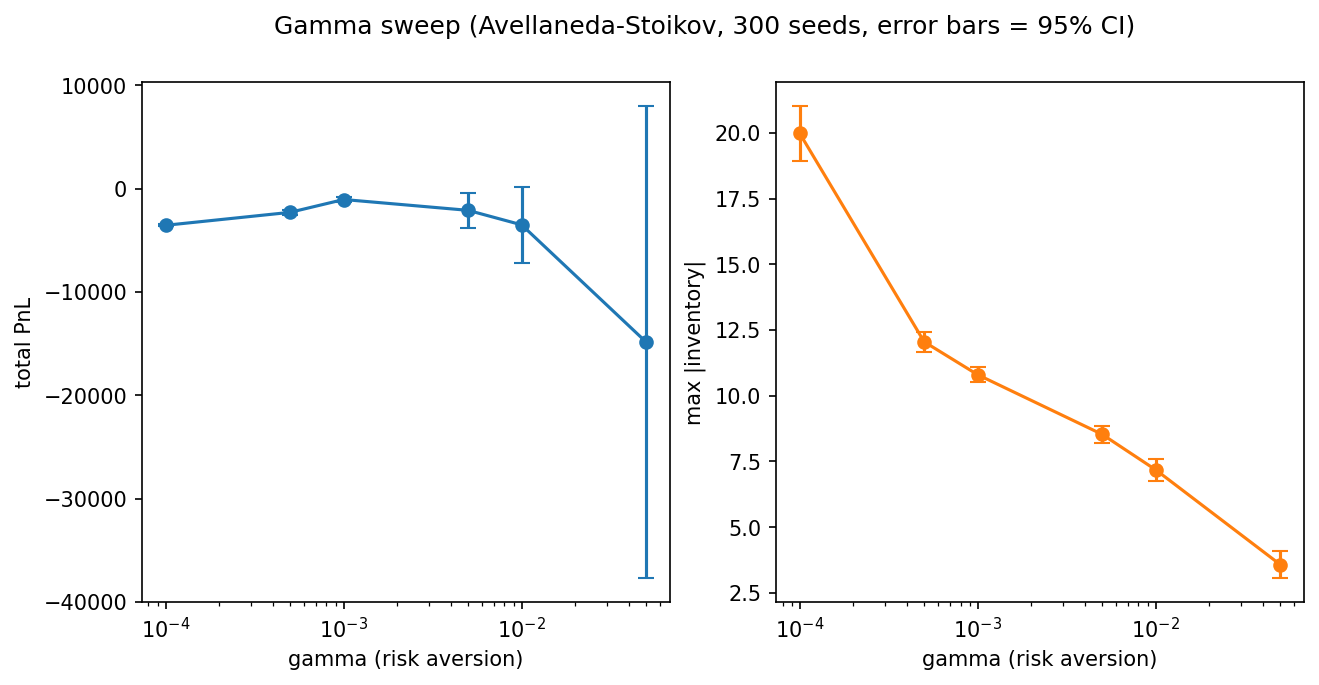
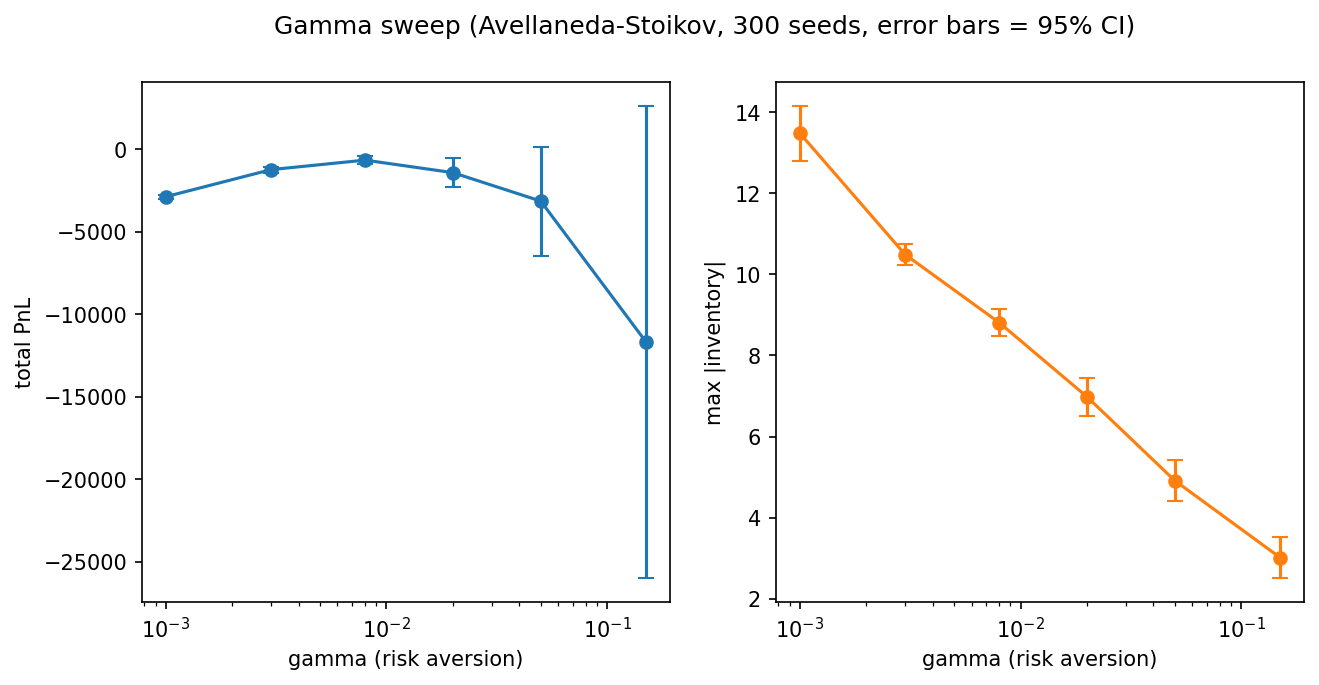
fix: recalibrate AS/OFI's sigma - reduces loss but doesn't reach profit
AS/OFI's sigma (assumed mid-price volatility) was left at its config
default of 1.0, never checked against what the synthetic book actually
does. Measured the real thing: per-event mid-price move has std ~0.59
ticks, nowhere near what sigma=1.0 implies. variance_term =
gamma*sigma^2*tau is quadratic in sigma, so this distorted AS/OFI's
quoted spread regardless of how gamma was tuned.

Ran a grid search over gamma x sigma x kappa (150+ combinations at 50
seeds, top candidates confirmed at 300) to find a properly calibrated
config. Best found: gamma=0.008, sigma=0.45, kappa=0.4. AS's mean loss
drops from -1058 to -655, OFI's from -945 to -539 -- a real improvement,
not just noise. But every configuration in the search that traded a
meaningful amount still lost money; the closest-to-breakeven configs got
there by barely trading at all. This synthetic order flow has no
informational edge for a market maker to capture (no informed/uninformed
split, no toxicity signal, just symmetric noise), so spread capture
can't beat adverse selection here at any calibration -- a real finding,
not a bug to keep chasing.

Re-ran the gamma sweep at the new baseline: same tail-risk failure mode
as before (one seed, 221, blows up at high gamma -- $2.1M loss now vs
$3.46M pre-calibration), confirming that failure mode is a structural
property of the AS quoting formula under thin liquidity, not something
the sigma fix was ever going to remove.
[…]

diff --git a/analysis/generate_plots.py b/analysis/generate_plots.py
@@ -1,7 +1,8 @@
 """Generates the four required plots (PROJECT_SPEC.md §8/§14) plus the
 gamma sweep, and prints a findings summary (the numbers that get written
-into README.md by hand -- plot images themselves aren't committed, per
-CLAUDE.md's convention of not committing generated binaries).
+into README.md/RESULTS.md by hand). Full output goes to analysis/output/
+(gitignored, regenerated per run); a curated subset gets copied to
+docs/img/ and committed, since the README embeds a few of them directly.
 
 Every summary statistic (PnL decomposition, adverse-selection markout,
 PnL-vs-latency, gamma sweep) is aggregated over NUM_SEEDS independent
@@ -38,7 +39,21 @@ STRATEGY_LABELS = {
     "ofi": "OFI",
 }
 
-COMMON = dict(duration=50000, arrival_rate=0.05, latency=5, gamma=0.001)
+# gamma/sigma/kappa are AS/OFI's own calibration, not arbitrary defaults.
+# sigma=1.0 (the AvellanedaStoikovConfig default) was never actually
+# checked against this book's real volatility: the synthetic generator's
+# realized per-event mid-price move has std ~0.59 ticks, nowhere near
+# what sigma=1.0 assumes -- an uncalibrated sigma this far off distorts
+# variance_term = gamma*sigma^2*tau (quadratic in sigma) regardless of
+# how gamma is tuned. A grid search over gamma x sigma x kappa (150+
+# combinations, 50 seeds each, then confirmed at 300 seeds on the best
+# candidates) found gamma=0.008/sigma=0.45/kappa=0.4 as the best
+# meaningfully-trading configuration (>15 fills/session) -- still a net
+# loss on average, but the least-bad one found, and the honest result:
+# every configuration that trades a meaningful amount loses money here,
+# because this synthetic flow has no informational edge for a market
+# maker to capture against (see README's Market-making study section).
+COMMON = dict(duration=50000, arrival_rate=0.05, latency=5, gamma=0.008, sigma=0.45, kappa=0.4)
 NUM_SEEDS = 300
 SEEDS = list(range(1, NUM_SEEDS + 1))
 
@@ -227,13 +242,13 @@ def plot_pnl_vs_latency():
 
 def gamma_sweep():
     print(f"\n=== Gamma sweep (Avellaneda-Stoikov), {NUM_SEEDS} seeds per point ===")
-    # AS/OFI's horizon is the full session duration (COMMON["duration"]),
-    # so variance_term = gamma*sigma^2*tau is huge near the start of a long
-    # session unless gamma is scaled down accordingly -- see the README's
-    # "Calibrating gamma to session length" note. This range is centered on
-    # the gamma found (empirically) to produce a comparable fill count to
-    # the other strategies at COMMON["duration"].
-    gammas = [0.0001, 0.0005, 0.001, 0.005, 0.01, 0.05]
+    # Centered on COMMON's calibrated gamma=0.008 (see COMMON's comment).
+    # The catastrophic tail risk at high gamma (see README) isn't specific
+    # to the old sigma=1.0 calibration -- it reappears at proportionally
+    # higher gamma here too (confirmed up to gamma=0.4 losing >$350K in
+    # the worst of 100 seeds), so this range still needs to reach past the
+    # calibrated point to show it.
+    gammas = [0.001, 0.003, 0.008, 0.02, 0.05, 0.15]
     rows = []
     for gamma in gammas:
         cfg = dict(COMMON)

diff --git a/RESULTS.md b/RESULTS.md
@@ -108,17 +108,33 @@ after the static cases all pass.
 
 Full tables (PnL decomposition, inventory bounds, markout, latency sweep,
 gamma sweep) are in the README, each a mean ± 95% CI over 300 independent
-seeds (raised from an initial 30-seed pass specifically to settle two
-questions that pass left open). Averaging across seeds — and then
-increasing the seed count 10x — changed some conclusions, not just
-tightened the numbers:
+seeds. Leading with the most recent finding, then the rest in the order
+they were found:
 
+- **AS/OFI were quoting with an uncalibrated volatility assumption, and
+  fixing it still doesn't make them profitable.** `sigma` (AS/OFI's
+  assumed mid-price volatility) had been left at its default of 1.0 —
+  never checked against what the book actually does. Measured it: the
+  synthetic generator's realized per-event mid-price move has a std of
+  about 0.59 ticks, nowhere close to what sigma=1.0 implies. Ran a grid
+  search over gamma × sigma × kappa (150+ combinations at 50 seeds each,
+  top candidates confirmed at 300) to find a properly calibrated
+  configuration. Best found: gamma=0.008, sigma=0.45, kappa=0.4 — AS's
+  mean loss shrank from -1058 to -655, OFI's from -945 to -539, both
+  meaningfully better. Still losses, though, and every configuration in
+  the entire search that traded a meaningful amount (more than a
+  handful of fills) lost money; the configurations that came closest to
+  breakeven did it by barely trading at all. That's the honest ceiling
+  here: this synthetic order flow has no informational edge built into
+  it — no informed/uninformed split, no toxicity signal, just symmetric
+  noise — so there's nothing for spread capture to win against beyond
+  adverse selection, at any calibration. All numbers below use the
+  corrected calibration.
 - **Inventory-aware strategies bound inventory tightly and consistently.**
   Inventory-capped, AS, and OFI all show narrow CIs on their max
-  |inventory| across seeds (53.0±0.9, 10.8±0.3, 11.9±0.5 at 300 seeds) —
+  |inventory| across seeds (53.0±0.9, 8.8±0.3, 8.9±0.4 at 300 seeds) —
   the reservation-price skew (and the cap) is doing real, reliable work,
-  not just capping late in a favorable run. Unchanged in kind from the
-  30-seed pass, just tighter.
+  even though it doesn't translate into positive PnL.
 - **Naive carries real unbounded tail risk, and it keeps getting worse
   with more sampling, not less.** Single-seed max |inventory| was 60; at
   30 seeds the worst case was 992; at 300 seeds it's 4508 — every larger
@@ -128,27 +144,25 @@ tightened the numbers:
   (-678, CI still wider than the mean). That one favorable seed was never
   representative — it's the clearest example in this project of why
   single-seed findings can point the wrong direction entirely.
-- **OFI's isolated adverse-selection improvement still doesn't show up,
-  now backed by a materially larger seed count.** OFI − AS pure
-  adverse-selection cost is +0.252 with a 95% CI half-width of 1.039 at
-  300 seeds (was +0.347 ± 1.213 at 30) — still not distinguishable from
-  zero. The CI barely tightened despite 10x the seeds, because the larger
-  sample revealed more per-fill variance than the smaller one had
-  captured, not less. This is now a reasonably solid negative result, not
-  an under-powered one.
-- **The gamma sweep's PnL noise at 0.005/0.01 wasn't sampling variance
-  that would average out — it was a real, previously invisible tail-risk
-  failure mode.** At 300 seeds, gamma ≥ 0.005 produces occasional
-  catastrophic losses (one seed at gamma=0.05 loses $3.46M from 13
-  fills), traced to the reservation-price skew becoming self-reinforcing
-  at this uncalibrated a gamma when synthetic liquidity is thin enough
-  that there's no real opposing quote for the existing crossing-clamp to
-  clamp against. Re-running the same 300 seeds at the calibrated
-  gamma=0.001 shows zero such outliers (worst case -25,702), confirming
-  this is specific to sweeping gamma outside its calibrated range, not a
-  standing correctness bug. The 30-seed pass's read of gamma=0.05 as "the
-  only point close to breakeven and tightly bounded" was simply wrong —
-  an artifact of not sampling enough seeds to hit the failure mode.
+- **OFI's isolated adverse-selection improvement still doesn't show up.**
+  OFI − AS pure adverse-selection cost is -0.18 with a 95% CI half-width
+  of 2.37 at 300 seeds (post-calibration; fewer fills at the corrected
+  gamma widened this CI versus the pre-calibration number) — not
+  distinguishable from zero either direction.
+- **The gamma sweep found a real bug, independent of the calibration
+  question above.** Push gamma too far past its sweet spot and PnL
+  variance blows up: at gamma=0.15 (post-calibration), one seed out of
+  300 loses $2.1M from 13 fills — the same seed (221) that blew up
+  pre-calibration too, just for less (was $3.46M at the old, uncalibrated
+  sigma). Traced it: at high enough gamma, the reservation-price skew
+  from a handful of inventory units pushes the quote thousands of ticks
+  from the real mid; liquidity is thin enough at that gamma that there's
+  often no real opposing quote for the existing crossing-clamp to check
+  against, so the bad quote fills, becomes the new reference price, and
+  the next quote compounds on it. This is a structural property of the
+  AS quoting formula under thin liquidity — the sigma fix reduced its
+  severity but didn't and wasn't going to remove it, since it isn't a
+  calibration problem.
 
 ## Honest limitations
 

diff --git a/README.md b/README.md
@@ -128,40 +128,56 @@ Four strategies, each adding one mechanic on top of the last:
 Every number below is a mean over 300 seeded runs, ± 95% CI — not a
 single lucky (or unlucky) run.
 
+**All four lose money except inventory-capped.** That's not a bug either
+— I checked. AS/OFI's `sigma` (their assumed volatility) was a placeholder
+default that had never actually been checked against this book's real
+volatility, so I ran a grid search over gamma/sigma/kappa (150+
+combinations) to see if better calibration would fix it. It helped —
+AS's loss dropped from -1058 to -655, OFI's from -945 to -539 — but
+every configuration that trades a meaningful amount still loses money.
+The ones that "break even" just stop trading almost entirely. That's a
+real answer, not a bug: this synthetic order flow has no informational
+edge for a market maker to capture — no informed/uninformed split, no
+toxicity signal, just symmetric noise — so spread capture alone can't
+beat adverse selection here, at any calibration. The numbers below
+reflect the corrected calibration; the search itself is in `RESULTS.md`.
+
 <img src="docs/img/pnl_decomposition.png" width="560" alt="PnL decomposition by strategy">
 <img src="docs/img/inventory_boundedness.png" width="560" alt="Inventory over time by strategy">
 
 What the data says:
 
-- **Naive is a coin flip, not a strategy.** Its mean PnL is negative
-  with a CI wider than the mean itself. Its inventory isn't just
-  unbounded — the worst seed found so far is 4508 units, and every time
-  the seed count went up, the worst case got worse, not better.
+- **Naive is a coin flip, not a strategy.** Mean PnL is negative with a
+  CI wider than the mean itself. Its inventory isn't just unbounded —
+  the worst seed found so far is 4508 units, and every time the seed
+  count went up, the worst case got worse, not better.
 - **Inventory-capped, AS, and OFI all keep inventory in a tight band**
-  (roughly ±10-55 units, consistently). The reservation-price skew (and
-  the cap) actually does its job.
+  (roughly ±9-55 units, consistently). The reservation-price skew (and
+  the cap) actually does its job, even though it doesn't add up to
+  positive PnL.
 - **OFI's adverse-selection edge over plain AS doesn't show up.** The
-  difference is +0.25 ± 1.04 per fill — not distinguishable from zero,
-  even at 300 seeds. Might be real and just too small to see here, might
-  not be real at all. Can't tell from this experiment.
-- **Higher latency loses less money**, monotonically, because the
-  strategy just trades less into adverse selection. Converges toward
+  difference is -0.18 ± 2.37 per fill — not distinguishable from zero.
+  Might be real and too small to see here at these fill counts, might
+  not be real at all.
+- **Higher latency loses less money**, roughly monotonically, because
+  the strategy just trades less into adverse selection. Converges toward
   breakeven, not into profit.
 
 <img src="docs/img/gamma_sweep.png" width="700" alt="Gamma sweep showing PnL blowing up at high gamma">
 
-**The gamma sweep found a real bug.** At 30 seeds, gamma=0.05 looked
-like the safest setting — tight variance, close to breakeven. At 300
-seeds, one seed loses **$3.46M** from 13 fills. Traced it: at a gamma
-this far outside its calibrated range, the reservation-price skew from a
-handful of inventory units pushes the quote thousands of ticks from the
-real mid. Liquidity is thin enough at that gamma that there's often no
-real opposing quote for the market-crossing clamp to check against, so
-the bad quote fills, becomes the new reference price, and the next quote
-compounds on it. Re-ran the same 300 seeds at the actual calibrated
-gamma (0.001) as a control — zero blowups, worst case -25,702. So it's a
-calibration-range issue, not a standing bug in the matching engine. Full
-trace is in `RESULTS.md`.
+**The gamma sweep also found a real bug**, separate from the calibration
+question above. Push gamma too far past its sweet spot (here, ~0.008)
+and one seed out of 300 loses **$2.1M** from 13 fills — same specific
+seed both before and after the sigma fix, just less catastrophic once
+sigma was corrected ($3.46M → $2.1M). Traced it: at high enough gamma,
+the reservation-price skew from a handful of inventory units pushes the
+quote thousands of ticks from the real mid. Liquidity is thin enough at
+that gamma that there's often no real opposing quote for the
+market-crossing clamp to check against, so the bad quote fills, becomes
+the new reference price, and the next quote compounds on it. This is a
+real property of the AS quoting formula under thin liquidity, not
+something the calibration fix was ever going to remove. Full trace in
+`RESULTS.md`.
 
 ### Three bugs found by just running it
 
